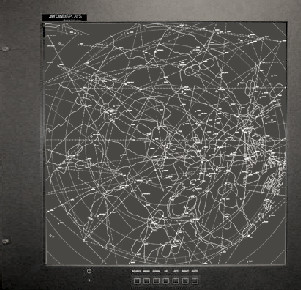
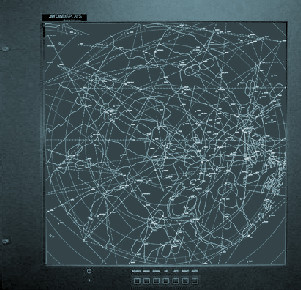
dirty dashboard

diff --git a/public/style.css b/public/style.css
@@ -5,6 +5,7 @@ body {
     font-size: 14px;
     /* background-color: #31342c; */
     background-color: black;
+    background-image: url(/static/img/plasticBG.jpg);
     /* background-image: url(/static/img/rayures.jpg); */
     /* background-repeat: no-repeat; */
 }
@@ -14,14 +15,16 @@ body {
 }
 .woodBlock {
     /* background-color: black; */
+    /* background-color: rgba(0, 0, 0, 0.4); */
     font-size: 13px;
     color: #d5cabd;
     padding: 8px 8px;
-    border-style: ridge;
+    border-style: solid;
     border-width: 2px;
-    border-color: #464a4a;
+    /* border-color: #464a4a; */
+    border-color: #000000;
     margin: 9px 0 10px 0;
-    /* border-radius: 6px; */
+    border-radius: 6px;
     min-width: 285px;
 }
 .modeSelect {
@@ -920,10 +923,12 @@ td {
     background-position: 0% 5%;
 }
 #unitInfos {
-    background-image: url(/static/img/plate-vdork-small.jpg);
-    background-position: 0% 0%;
+    /* background-image: url(/static/img/plate-vdork-small.jpg); */
+    /* background-position: 0% 0%; */
+    background-image: url(/static/img/windowBG.jpg);
+    background-position: 0% 45%;
     scroll-behavior: auto;
-    scrollbar-color: #4C4845 #17161A;
+    scrollbar-color: #23305e #17203f;
     overflow-y: scroll;
     display: none;
     height: 800px;
@@ -932,16 +937,18 @@ td {
     /* background-image: url(/static/img/plate-vdork-small.jpg); */
     /* background-position: 0% 0%; */
     scroll-behavior: auto;
-    scrollbar-color: #4C4845 #17161A;
+    scrollbar-color: #23305e #17203f;
     overflow-y: scroll;
     /* display: none; */
     max-width: 550px;
 }
 #conUnitList,#conAmmoList {
-    background-image: url(/static/img/plate-vdork-small.jpg);
-    background-position: 0% 0%;
+    /* background-image: url(/static/img/plate-vdork-small.jpg); */
+    /* background-position: 0% 0%; */
+    background-image: url(/static/img/windowBG.jpg);
+    background-position: 0% 45%;
     scroll-behavior: auto;
-    scrollbar-color: #4C4845 #17161A;
+    scrollbar-color: #23305e #17203f;
     overflow-y: scroll;
     display: none;
     height: 300px;
@@ -952,8 +959,10 @@ td {
     background-position: 0% 35%;
 }
 #tileInfos {
-    background-image: url(/static/img/plate-vdork-small.jpg);
-    background-position: 0% 40%;
+    /* background-image: url(/static/img/plate-vdork-small.jpg); */
+    /* background-position: 0% 40%; */
+    background-image: url(/static/img/windowBG.jpg);
+    background-position: 800px 33%;
     display: none;
     /* min-height: 81px; */
 }
@@ -965,46 +974,60 @@ td {
     /* background-image: url(/static/img/plate-vdork-small.jpg); */
     /* background-position: right 0%; */
     min-width: 130px;
-    background-image: url(/static/img/oldmetal_bg.jpg);
-    background-position: 0% 45%;
+    /* background-image: url(/static/img/oldmetal_bg.jpg); */
+    /* background-position: 0% 45%; */
+    background-image: url(/static/img/windowBG.jpg);
+    background-position: 0% 60%;
 }
 #commandz {
     /* background-image: url(/static/img/plate-vdork-small.jpg); */
     /* background-position: 20% 10%; */
     min-width: 130px;
-    background-image: url(/static/img/oldmetal_bg.jpg);
-    background-position: 0% 0%;
+    /* background-image: url(/static/img/oldmetal_bg.jpg); */
+    /* background-position: 0% 0%; */
+    background-image: url(/static/img/windowBG.jpg);
+    background-position: 20% 60%;
 }
 #report {
-    background-image: url(/static/img/plate-vdork-small.jpg);
-    background-position: 0% 0%;
+    /* background-image: url(/static/img/plate-vdork-small.jpg); */
+    /* background-position: 0% 0%; */
+    background-image: url(/static/img/windowBG.jpg);
+    background-position: 40% 60%;
     min-width: 130px;
     max-width: 130px;
     line-height: 14px;
 }
 #warnings {
-    background-image: url(/static/img/plate-vdork-small.jpg);
-    background-position: 0% 0%;
+    /* background-image: url(/static/img/plate-vdork-small.jpg); */
+    /* background-position: 0% 0%; */
+    background-image: url(/static/img/windowBG.jpg);
+    background-position: 50% 60%;
     min-width: 130px;
     max-width: 130px;
     line-height: 17px;
 }
 #gangInfos {
-    background-image: url(/static/img/plate-vdork-small.jpg);
-    background-position: 0% 0%;
+    /* background-image: url(/static/img/plate-vdork-small.jpg); */
+    /* background-position: 0% 0%; */
+    background-image: url(/static/img/windowBG.jpg);
+    background-position: 70% 60%;
     min-width: 130px;
     max-width: 130px;
     line-height: 17px;
 }
 #timeInfos {
-    background-image: url(/static/img/plate-vdork-small.jpg);
-    background-position: right 10%;
+    /* background-image: url(/static/img/plate-vdork-small.jpg); */
+    /* background-position: right 10%; */
+    background-image: url(/static/img/windowBG.jpg);
+    background-position: 0% 60%;
     min-width: 130px;
 }
 #modesInfos {
     /* background-image: url(/static/img/dom-thumb.jpg); */
-    background-position: 0% 0%;
-    background-image: url(/static/img/plate-vdork-small.jpg);
+    /* background-position: 0% 0%; */
+    /* background-image: url(/static/img/plate-vdork-small.jpg); */
+    background-image: url(/static/img/windowBG.jpg);
+    background-position: 0% 60%;
     min-width: 130px;
     height: 144px;
     padding: 0 0 0 0;
@@ -1071,31 +1094,35 @@ td {
     /* min-height: 1950px; */
 }
 #menu_soute {
-    background-image: url(/static/img/plate-dork-mid.jpg);
-    background-position: right 0% 0%;
+    /* background-image: url(/static/img/plate-dork-mid.jpg); */
+    background-image: url(/static/img/souteList.jpg);
+    background-position: 0% 0%;
     height: 50px;
     width: 495px;
 }
 #list_soute {
-    background-image: url(/static/img/plate-dork-mid.jpg);
-    background-position: right 0% 0%;
+    /* background-image: url(/static/img/plate-dork-mid.jpg); */
+    background-image: url(/static/img/souteList.jpg);
+    background-position: 0% 0%;
     scroll-behavior: auto;
-    scrollbar-color: #4C4845 #17161A;
+    scrollbar-color: #23305e #17203f;
     overflow-y: scroll;
     height: 1000px;
     width: 495px;
 }
 #menu_lander {
-    background-image: url(/static/img/plate-dork-mid.jpg);
-    background-position: right 0% 0%;
+    /* background-image: url(/static/img/plate-dork-mid.jpg); */
+    background-image: url(/static/img/souteList.jpg);
+    background-position: 0% 0%;
     height: 50px;
     width: 495px;
 }
 #list_lander {
-    background-image: url(/static/img/plate-dork-mid.jpg);
-    background-position: right 0% 0%;
+    /* background-image: url(/static/img/plate-dork-mid.jpg); */
+    background-image: url(/static/img/souteList.jpg);
+    background-position: 0% 0%;
     scroll-behavior: auto;
-    scrollbar-color: #4C4845 #17161A;
+    scrollbar-color: #23305e #17203f;
     overflow-y: scroll;
     height: 1000px;
     width: 495px;

diff --git a/public/firegets.js b/public/firegets.js
@@ -1289,7 +1289,7 @@ function checkRicochet(defBat,defBatType,attWeap,init) {
     if (!defBat.tags.includes('jelly')) {
         if (attWeap.name != undefined) {
             if (defBatType.skills.includes('ricochet') || defBat.tags.includes('ricochet') || (defBatType.skills.includes('ricoface') && !init)) {
-                if (!attWeap.isFire && !attWeap.isAcid && !attWeap.ammo.includes('laser') && !attWeap.ammo.includes('electric') && !attWeap.ammo.includes('eflash') && !attWeap.ammo.includes('taser') && !attWeap.ammo.includes('web') && !attWeap.ammo.includes('glair') && !attWeap.ammo.includes('flashbang') && !attWeap.name.includes('plasma') && !attWeap.ammo.includes('snake') && !attWeap.ammo.includes('gaz') && !attWeap.ammo.includes('disco') && !attWeap.ammo.includes('psionics') && !attWeap.ammo.includes('mono') && !attWeap.isMelee && !attWeap.noShield && !attWeap.isSaw) {
+                if (!attWeap.isFire && !attWeap.isAcid && !attWeap.ammo.includes('laser') && !attWeap.ammo.includes('electric') && !attWeap.ammo.includes('eflash') && !attWeap.ammo.includes('taser') && !attWeap.ammo.includes('web') && !attWeap.ammo.includes('glair') && !attWeap.ammo.includes('flashbang') && !attWeap.name.includes('plasma') && !attWeap.ammo.includes('snake') && !attWeap.ammo.includes('gaz') && !attWeap.ammo.includes('disco') && !attWeap.ammo.includes('psionics') && !attWeap.ammo.includes('mono') && !attWeap.isMelee && !attWeap.noShield && !attWeap.isSaw && attWeap.ammo != 'marquage-spike') {
                     let defArmor = defBat.armor;
                     if (bugROF > 1) {
                         if (defBatType.cat === 'aliens') {

diff --git a/public/buildcosts.js b/public/buildcosts.js
@@ -1111,6 +1111,9 @@ function getDispoCit() {
     let numCitBat = 0;
     bataillons.forEach(function(bat) {
         if (bat.loc === 'trans' && landersIds.includes(bat.locId) && bat.type === 'Citoyens') {
+            if (bat.citoyens < 1) {
+                bat.citoyens = 1;
+            }
             dispoCit = dispoCit+bat.citoyens;
             numCitBat++;
         }
@@ -1141,6 +1144,9 @@ function getDispoCrim() {
     let numCitBat = 0;
     bataillons.forEach(function(bat) {
         if (bat.loc === 'trans' && landersIds.includes(bat.locId) && bat.type === 'Criminels') {
+            if (bat.citoyens < 1) {
+                bat.citoyens = 1;
+            }
             dispoCrim = dispoCrim+bat.citoyens;
             numCitBat++;
         }

diff --git a/public/terrains.css b/public/terrains.css
@@ -13,7 +13,8 @@
     /* margin-top: 0px; */
 }
 #zone_monitor {
-    display: block;
+    /* display: block; */
+    display: none;
     position: absolute;
     z-index: 10;
     pointer-events:none;
@@ -21,13 +22,17 @@
     margin-top: -7px;
     border-style: ridge;
     border-width: 8px;
-    border-color: #50603e;
+    border-color: #23305e;
 }
 #zone_soute {
     display: none;
+    margin-left: -10px;
+    margin-top: -18px;
 }
 #zone_metro {
     display: none;
+    margin-left: -6px;
+    margin-top: -6px;
 }
 #minimap {
     font-size: 0px;

diff --git a/public/extraction.js b/public/extraction.js
@@ -768,7 +768,7 @@ function getResMiningRate(bat,res,value,fullRate,forInfos) {
     // ADJ SUBTYPE & LEVELS
     if (!batType.mining.types.includes(res.bld)) {
         if (batType.mining.subTypes.includes(res.bld)) {
-            if (hasEquip(bat,['g2tools'])) {
+            if (hasEquip(bat,['g2tools']) && !batType.skills.includes('buche')) {
                 let umr = batType.mining.rate;
                 umr = entre(umr,10,48);
                 if (hasEquip(bat,['autoextract'])) {

diff --git a/public/maploader.js b/public/maploader.js
@@ -147,7 +147,7 @@ function mapEffect() {
     let vpix = (numVTiles*72)+10;
     let hmon = hpix-6;
     let vmon = vpix-8;
-    if (!inSoute) {
+    if (!playerInfos.onShip) {
         if (!playerInfos.clouds) {
             $('#zone_effect').append('<span class="cloudz" id="dirty"><img src="/static/img/scratchGrid7.png"></span>');
         } else {

diff --git a/public/stylebuttons.css b/public/stylebuttons.css
@@ -14,7 +14,7 @@ button, select {
 	text-shadow:0px 1px 0px #4d3534;
 	/* -moz-border-radius:4px; */
 	/* -webkit-border-radius:4px; */
-	/* border-radius:4px; */
+	border-radius:8px;
 	display:inline-block;
 	cursor:pointer;
 	color:#ededed;
